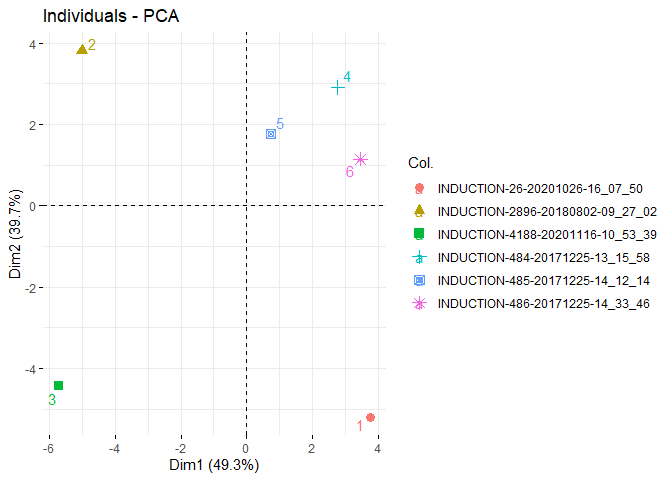
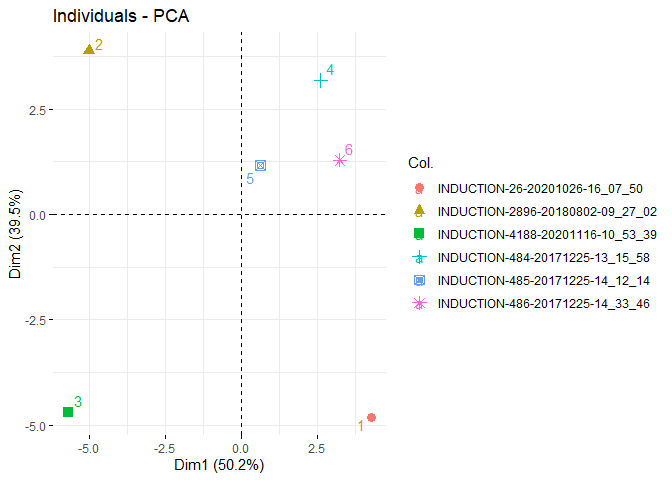
add substitute source

diff --git a/README.md b/README.md
@@ -222,6 +222,11 @@ it will help the Y axis in a range of 0\~1.
 
 ## PCA analysis
 
+To help us analyse the results with PCA, a function called `jip_pca` can
+help us to have a quick view of all the data. There is only one
+parameter for the function, that is the returned data frame from
+`jiptest`, to get the data for PCA analysis use continuous light:
+
 ``` r
 library("FactoMineR")
 library("factoextra")
@@ -233,22 +238,42 @@ library("factoextra")
 
 ``` r
 pca_df <- jip_pca(all_data_continuous)
-
-# use a short name that easy to distinguish
-pca_df$SOURCE <-  c(
-    'induction_2020',
-    'induction_2018',
-    'induction_2020',
-    'induction_2017',
-    'induction_2017',
-    'induction_2017'
-  )
 ```
 
-To help us analyse the results with PCA, a function called `jip_pca` can
-help us to have a quick view of all the data. There is only one
-parameter for the function, that is the returned data frame from
-`jiptest`, to get the data for PCA analysis use continuous light:
+Assume that these excel file in the folder of ojip contains flies of
+different treatments (actually they belong to different species that
+test in different years), we assume data from the same year (indicated
+by the file names) are the same treatment. we should change the column
+of `SOURCE` in the data file to what treatment they belongs, not the
+file names they are from:
+
+First we should check the file names of `SOURCE`:
+
+``` r
+pca_df$SOURCE
+```
+
+    ## [1] "INDUCTION-26-20201026-16_07_50"   "INDUCTION-2896-20180802-09_27_02"
+    ## [3] "INDUCTION-4188-20201116-10_53_39" "INDUCTION-484-20171225-13_15_58" 
+    ## [5] "INDUCTION-485-20171225-14_12_14"  "INDUCTION-486-20171225-14_33_46"
+
+Then we can use a function from `jiptest` to help change the `SOURCE`
+column to different groups that indicate treatments/replications etc.
+
+``` r
+# use a short name that easy to distinguish
+treatment <-
+  c('2020_species',
+    '2018_spices',
+    '2020_species',
+    rep('2017_spices', 3))
+
+pca_df$SOURCE <- sub_name(pca_df, treatment)
+pca_df$SOURCE
+```
+
+    ## [1] "2020_species" "2018_spices"  "2020_species" "2017_spices"  "2017_spices" 
+    ## [6] "2017_spices"
 
 ``` r
 df <- pca_df[,-1]
@@ -256,21 +281,21 @@ final_pca <- PCA(df, graph = FALSE)
 fviz_eig(final_pca, addlabels = TRUE)
 ```
 
-![](README_files/figure-gfm/unnamed-chunk-10-1.png)<!-- -->
+![](README_files/figure-gfm/unnamed-chunk-12-1.png)<!-- -->
 
 ``` r
 fviz_pca_var(final_pca)
 ```
 
-![](README_files/figure-gfm/unnamed-chunk-10-2.png)<!-- -->
+![](README_files/figure-gfm/unnamed-chunk-12-2.png)<!-- -->
 
 ``` r
 fviz_pca_ind(final_pca, repel = TRUE, col.ind= pca_df$SOURCE)
 ```
 
-![](README_files/figure-gfm/unnamed-chunk-10-3.png)<!-- -->
+![](README_files/figure-gfm/unnamed-chunk-12-3.png)<!-- -->
 
-use PAM:
+To use PAM:
 
 ``` r
 pca_df <- jip_pca(all_data_pam)
@@ -280,16 +305,16 @@ final_pca <- PCA(df, graph = FALSE)
 fviz_eig(final_pca, addlabels = TRUE)
 ```
 
-![](README_files/figure-gfm/unnamed-chunk-11-1.png)<!-- -->
+![](README_files/figure-gfm/unnamed-chunk-13-1.png)<!-- -->
 
 ``` r
 fviz_pca_var(final_pca)
 ```
 
-![](README_files/figure-gfm/unnamed-chunk-11-2.png)<!-- -->
+![](README_files/figure-gfm/unnamed-chunk-13-2.png)<!-- -->
 
 ``` r
 fviz_pca_ind(final_pca, repel = TRUE, col.ind= pca_df$SOURCE)
 ```
 
-![](README_files/figure-gfm/unnamed-chunk-11-3.png)<!-- -->
+![](README_files/figure-gfm/unnamed-chunk-13-3.png)<!-- -->
